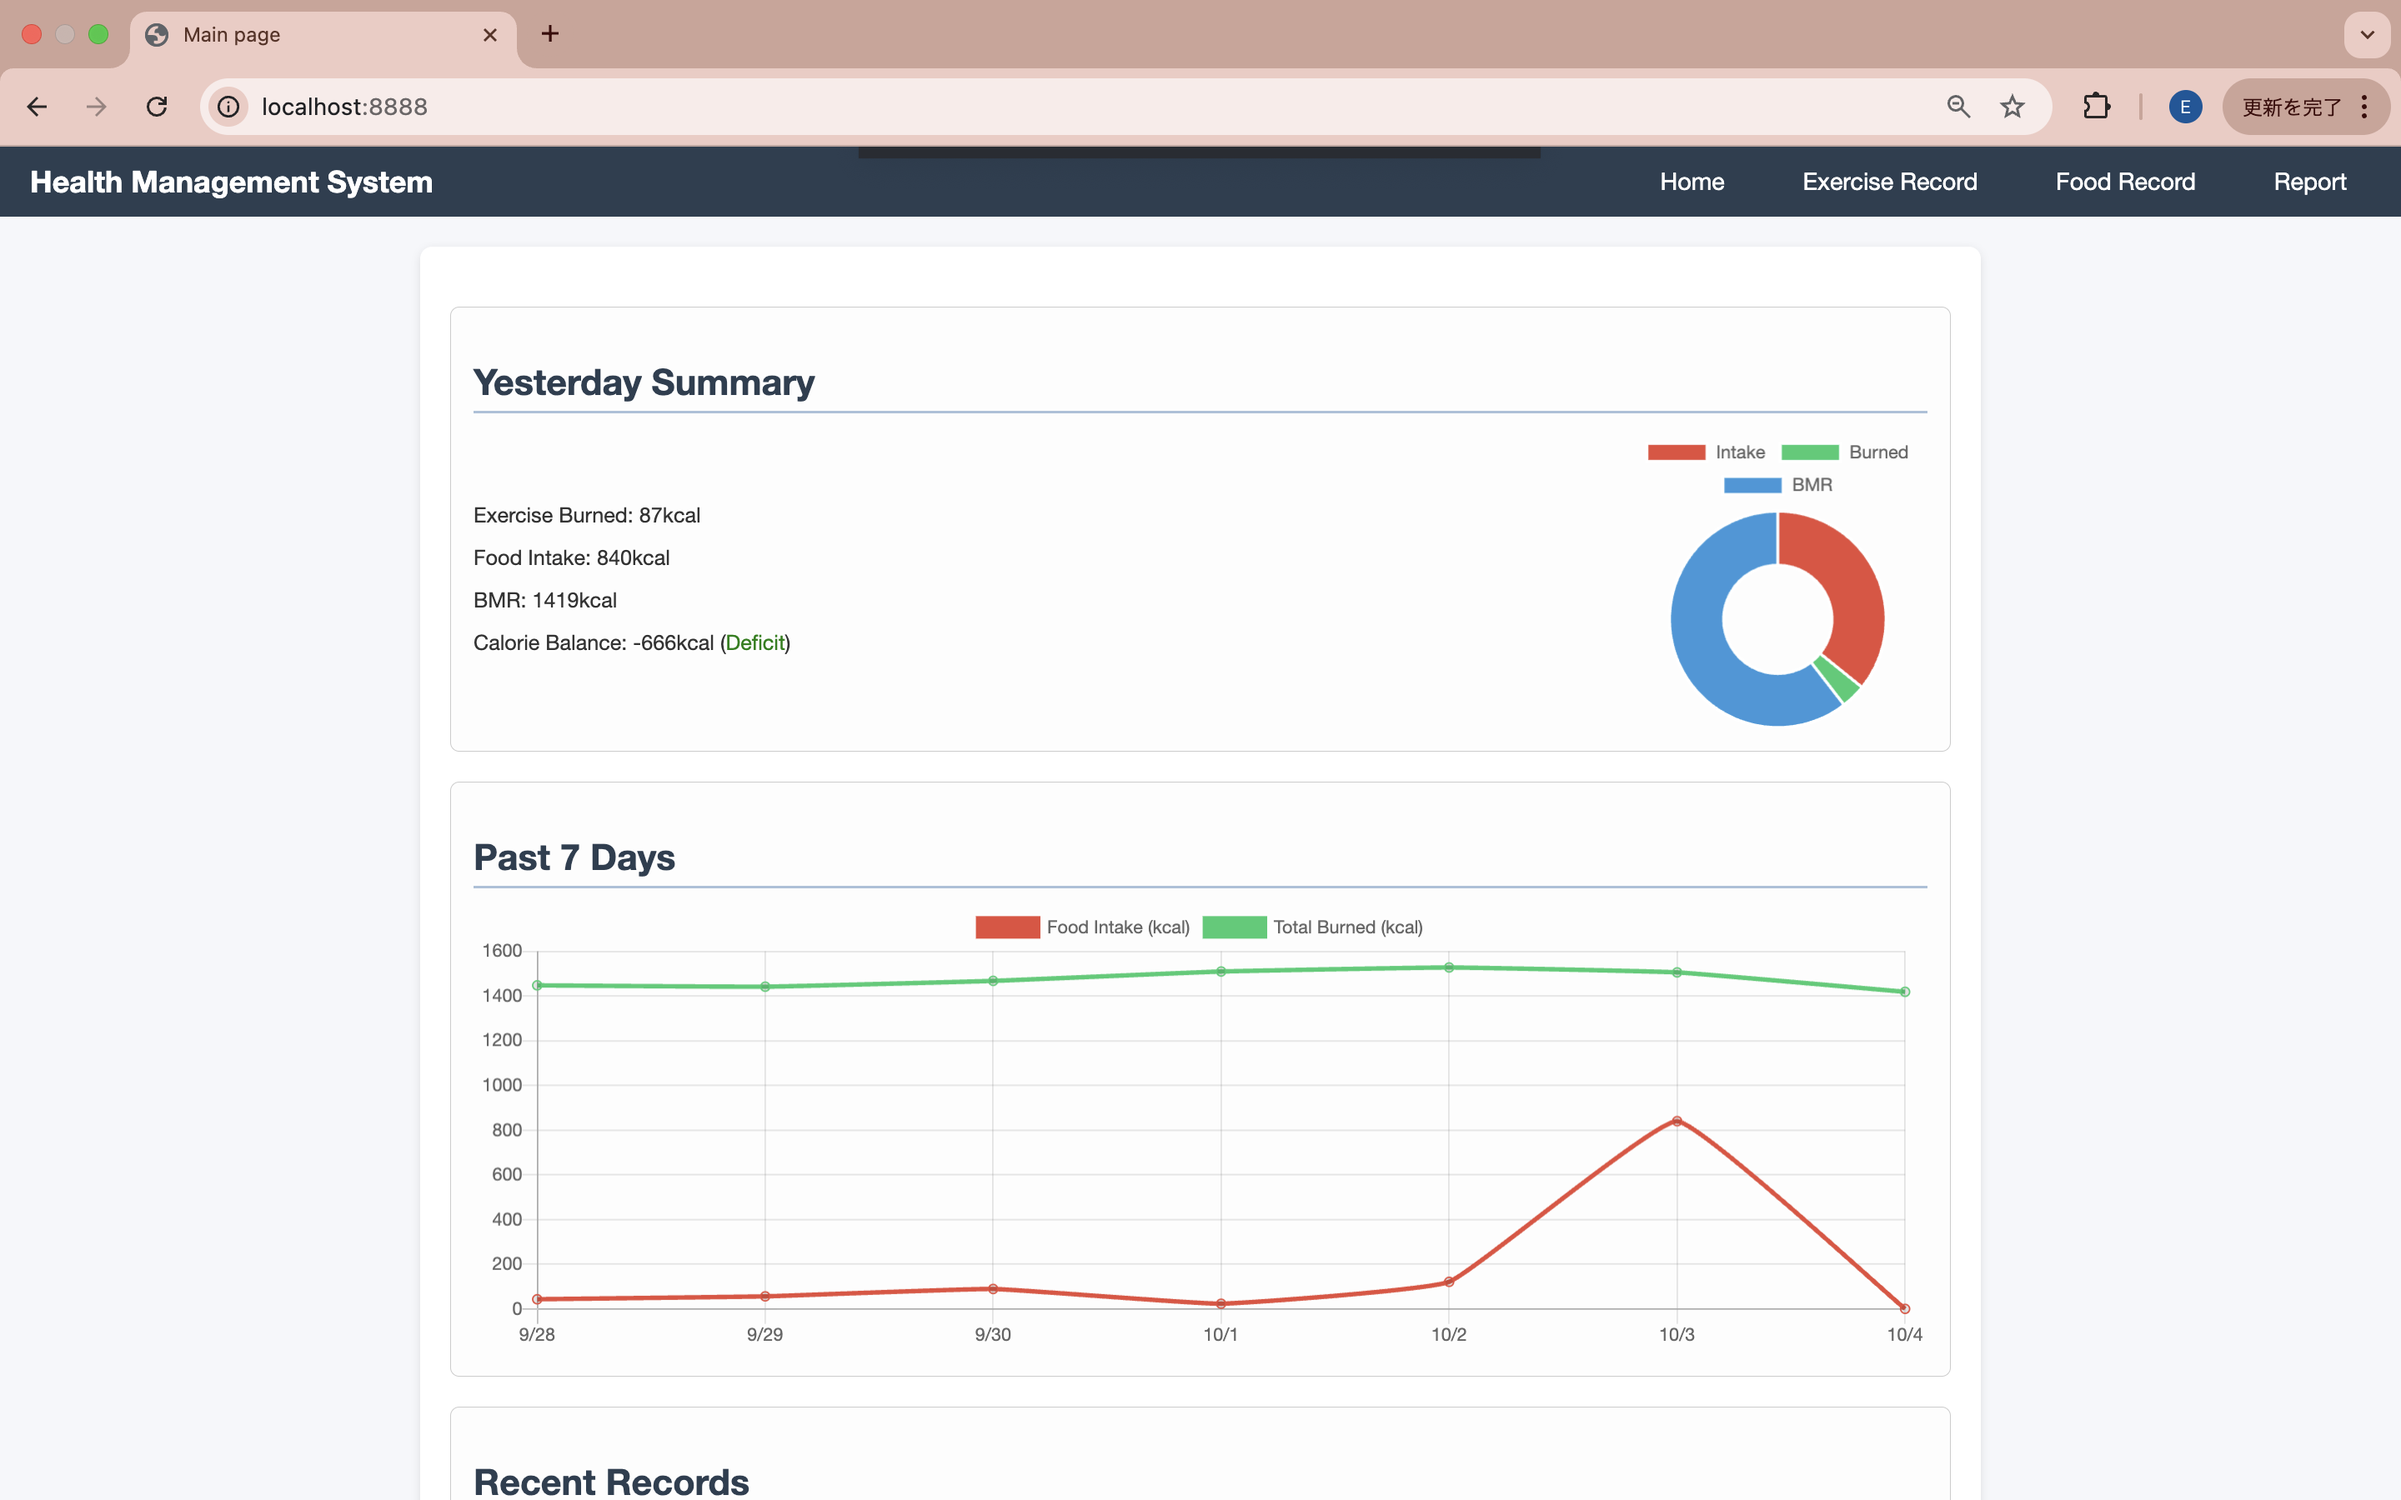
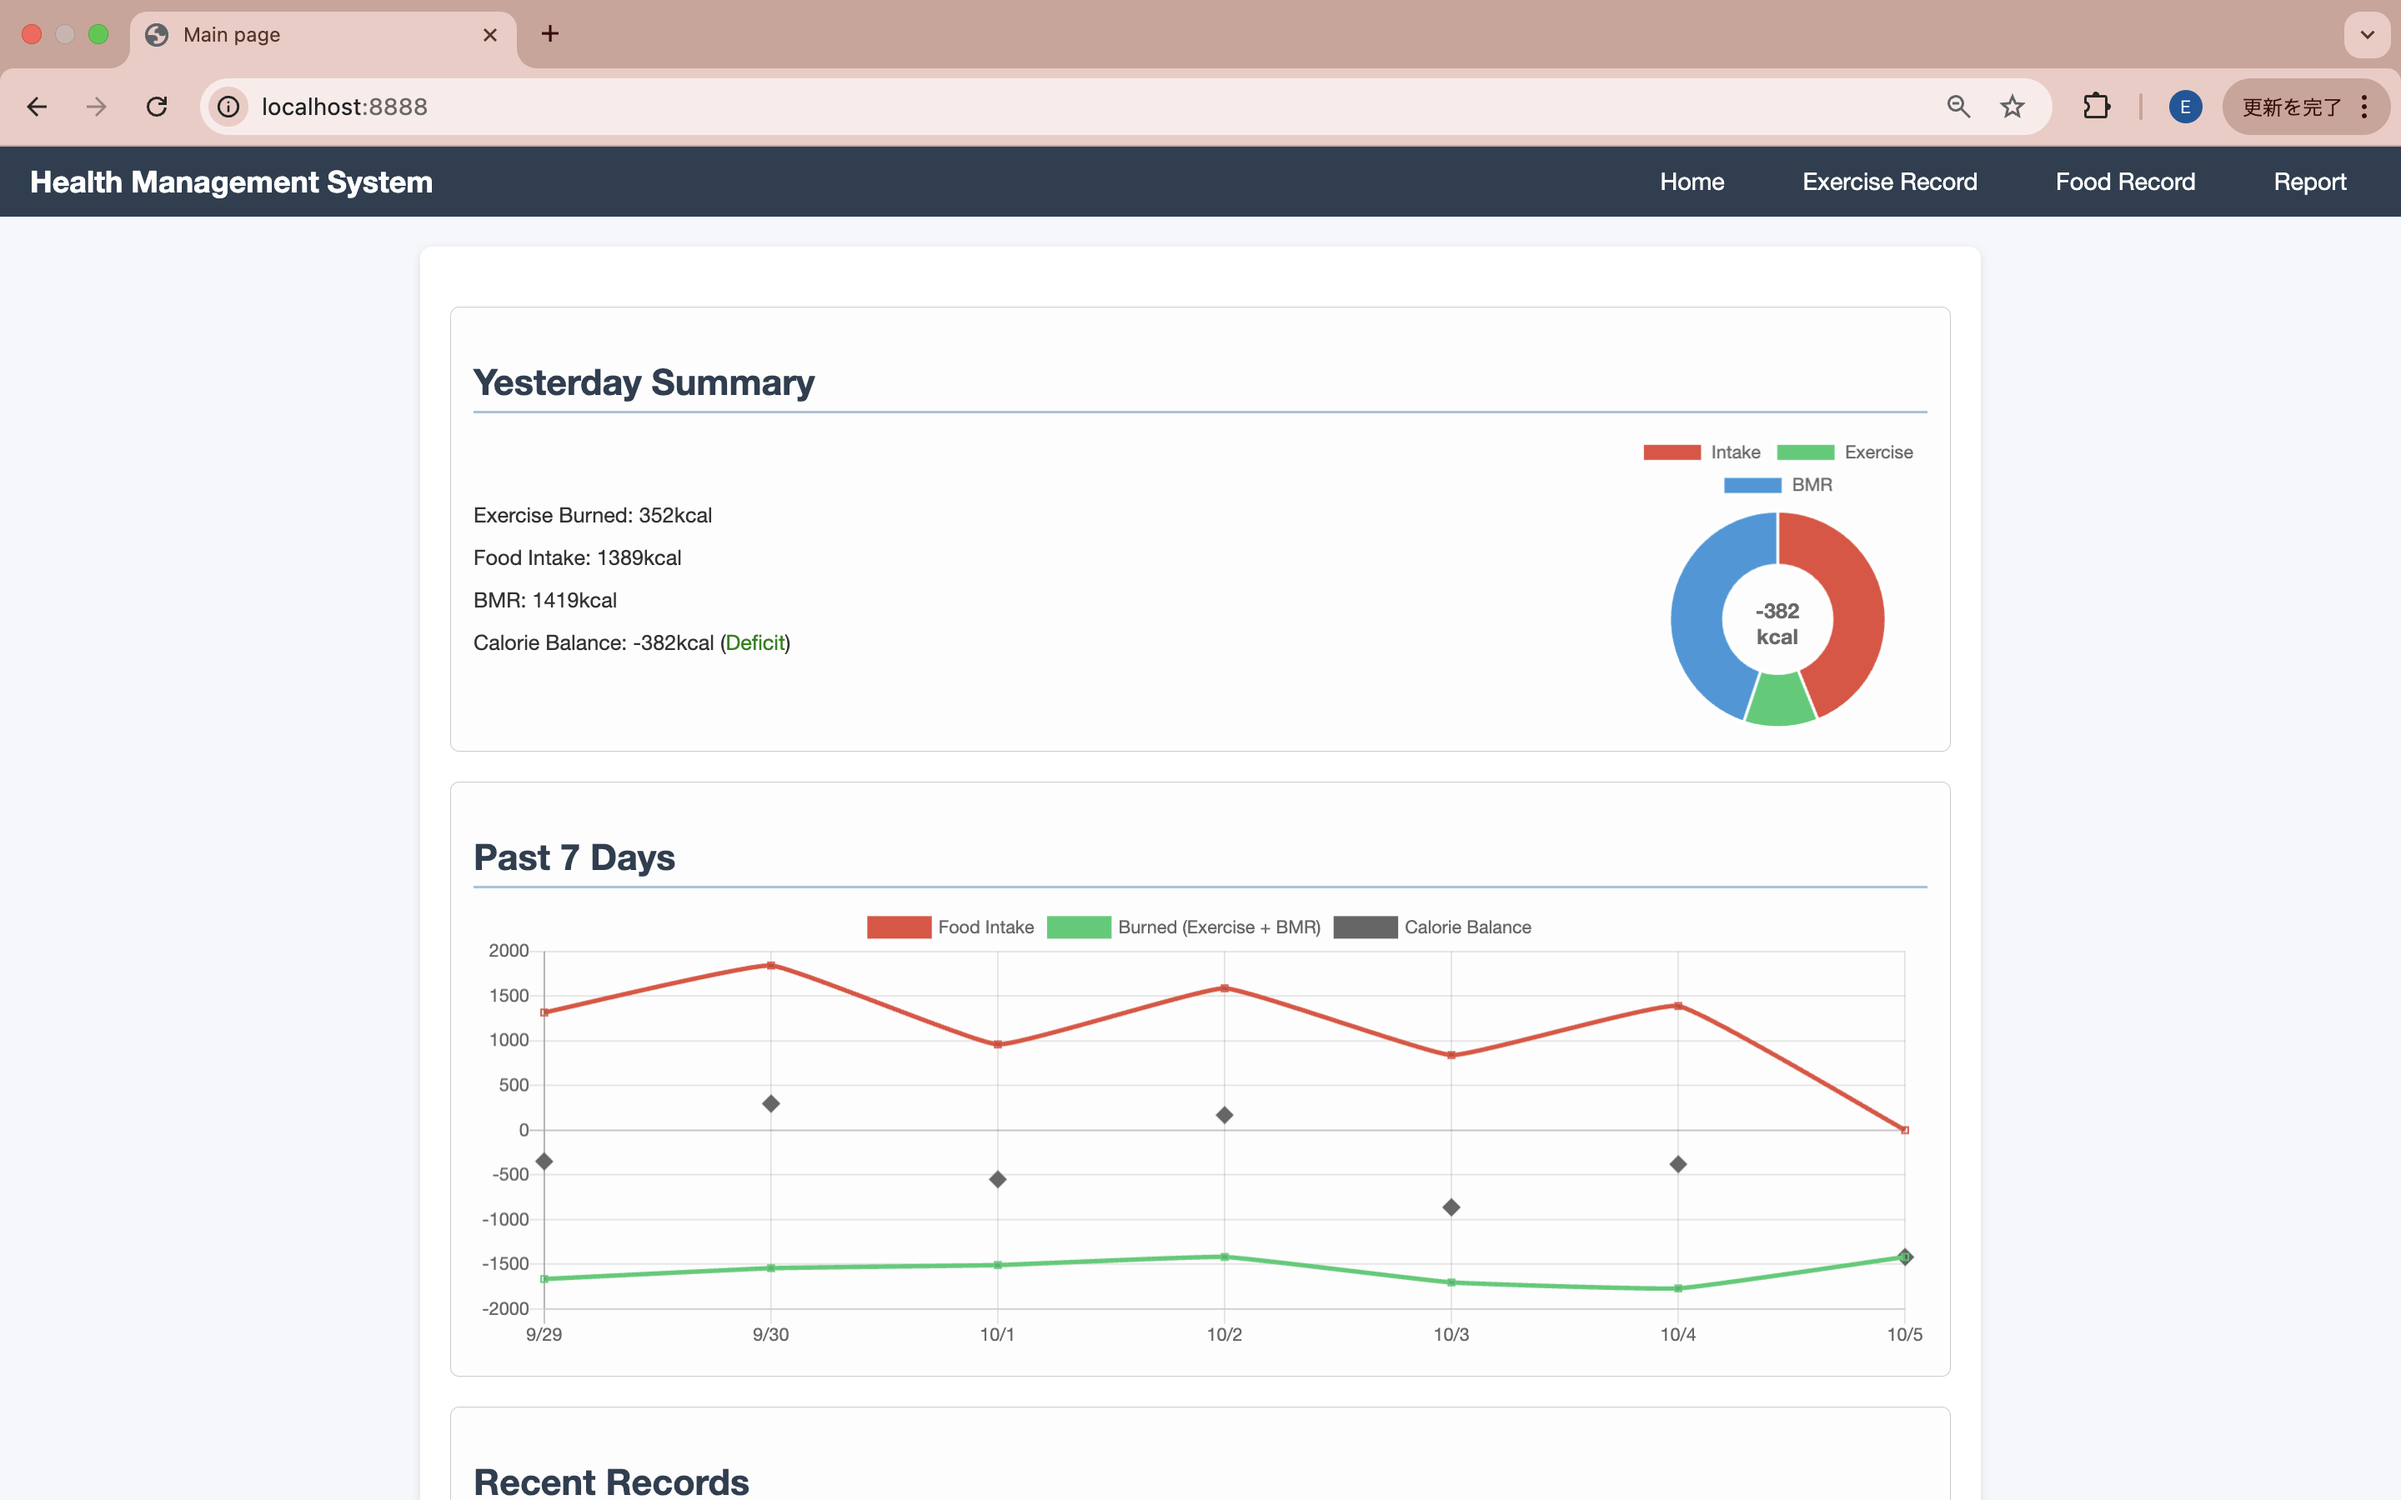
Add 'Past 7 days trend chart' for dashboard. Update README.

diff --git a/src/main/resources/templates/home.html b/src/main/resources/templates/home.html
@@ -27,6 +27,10 @@
             </div>
             <div class="summary-chart">
                 <canvas id="yesterdayChart" width="250" height="250"></canvas>
+                <div class="chart-center-text">
+                    <span th:text="${diff}">0</span>
+                    <small>kcal</small>
+                </div>
             </div>
         </div>
     </div>
@@ -44,7 +48,7 @@
         new Chart(yesterdayCtx, {
             type: "doughnut",
             data: {
-                labels: ['Intake', 'Burned', 'BMR'],
+                labels: ['Intake', 'Exercise', 'BMR'],
                 datasets: [{
                     label: 'Calories(kcal)',
                     data: [intake, exerciseBurned, bmr],
@@ -77,9 +81,14 @@
         const intakeData = /*[[${intakeData}]]*/ [];
         const dateLabels = /*[[${dateLabels}]]*/ [];
         const burnedData = /*[[${burnedData}]]*/ [];
+        const diffData = /*[[${diffData}]]*/ [];
+        const goalAchievedData = /*[[${goalAchievedData}]]*/ [];
 
-        console.log("サーバーから渡された日付ラベル:", dateLabels);
-        console.log("サーバーから渡された摂取カロリーデータ:", intakeData);
+        const negativeBurnedData = burnedData.map(value => -value);
+        // const pointStyles = goalAchievedData.map(achieved => achieved ? 'rect' : 'crossRot'); // 達成ならマル, 未達成ならバツ
+
+        console.log("サーバから渡された日付ラベル:", dateLabels);
+        console.log("サーバから渡された摂取カロリーデータ:", intakeData);
 
         const trendCtx = document.getElementById("past7DayChart").getContext("2d");
         new Chart(trendCtx, {
@@ -88,18 +97,30 @@
                 labels: dateLabels,
                 datasets: [
                     {
-                        label: 'Food Intake (kcal)',
+                        label: 'Food Intake',
                         data: intakeData,
                         fill: false,
                         borderColor: '#e74c3c',    // Intake 红
+                        pointStyle: 'rect',
                         tension: 0.1
                     },
                     {
-                        label: 'Total Burned (kcal)',
-                        data: burnedData,
+                        label: 'Burned (Exercise + BMR)',
+                        data: negativeBurnedData,
                         fill: false,
+                        pointStyle: 'rect',
                         borderColor: '#2ecc71',
-                        tension: 0.1
+                        tension: 0.1,
+                    },
+                    {
+                        label: 'Calorie Balance',
+                        data: diffData,
+                        showLine: false,
+                        fill: false,
+                        pointBackgroundColor: '696969FF',
+                        borderColor: '696969FF',
+                        pointRadius: 6,
+                        pointStyle: 'rectRot'
                     }
                 ]
             },

diff --git a/src/main/resources/static/css/healthmanage.css b/src/main/resources/static/css/healthmanage.css
@@ -296,6 +296,7 @@ tr:hover {
 }
 
 .summary-chart {
+    position: relative; /* 子要素を絶対位置で配置するための基準にする */
     flex: 0 0 200px;           /* 固定宽度 200px */
     height: 200px;             /* 高度 200px */
 }
@@ -303,6 +304,26 @@ tr:hover {
 .summary-chart canvas {
     width: 100% !important;   /* 让 Chart.js 适应容器 */
     height: 100% !important;
+}
+
+.chart-center-text {
+    /* 親要素の中央に配置するおまじない */
+    position: absolute;
+    top: 65%;
+    left: 50%;
+    transform: translate(-50%, -50%);
+
+    /* テキストのスタイル */
+    text-align: center;
+    font-size: 14px;
+    font-weight: bold;
+    color: dimgray;
+}
+
+.chart-center-text small {
+    display: block; /* ブロック要素にして改行させる */
+    font-size: 14px;
+    color: dimgray;
 }
 
 .chart-container {

diff --git a/src/main/java/com/springboot/healthmanage/controller/HomeController.java b/src/main/java/com/springboot/healthmanage/controller/HomeController.java
@@ -8,12 +8,14 @@ import org.springframework.ui.Model;
 import org.springframework.web.bind.annotation.GetMapping;
 import org.thymeleaf.expression.Maps;
 
+import java.math.BigDecimal;
 import java.time.LocalDate;
 import java.time.format.DateTimeFormatter;
 import java.util.ArrayList;
 import java.util.LinkedHashMap;
 import java.util.List;
 import java.util.Map;
+import java.util.concurrent.ThreadLocalRandom;
 import java.util.stream.Collectors;
 
 @Controller
@@ -55,20 +57,30 @@ public class HomeController {
         List<String> dateLabels = new ArrayList<>();
         List<Integer> intakeData = new ArrayList<>();
         List<Integer> burnedData = new ArrayList<>();
+        List<Integer> diffData = new ArrayList<>();
+        List<Boolean> goalAchievedData = new ArrayList<>();
 
         // 7日間の日付をループし、2つのリストにデータを振り分ける
         for (LocalDate date : last7Days) {
-            // ラベルを追加 (例: "10/5")
+            // ラベルを追加
             dateLabels.add(date.format(DateTimeFormatter.ofPattern("M/d")));
-            // 食事データを追加 (該当日がなければ0を追加)
-            intakeData.add(dailyIntakeMap.getOrDefault(date, 0));
-            // 運動データを追加 (該当日がなければ0を追加)
-            burnedData.add(dailyBurnedMap.getOrDefault(date, 0) + bmr);
+            // データを追加
+            int dailyIntake = dailyIntakeMap.getOrDefault(date, 0);
+            intakeData.add(dailyIntake);
+            int dailyBurned = dailyBurnedMap.getOrDefault(date, 0) + bmr;
+            burnedData.add(dailyBurned);
+            int dailyBmr = ThreadLocalRandom.current().nextInt(1370, 1430);
+            int dailyDiff = dailyIntake - dailyBurned;
+            diffData.add(dailyDiff);
+            goalAchievedData.add(dailyDiff < 0);
+
         }
 
         model.addAttribute("dateLabels", dateLabels);
         model.addAttribute("intakeData", intakeData);
         model.addAttribute("burnedData", burnedData);
+        model.addAttribute("goalAchievedData", goalAchievedData);
+        model.addAttribute("diffData", diffData);
 
         return "home"; // templates/home.html
     }

diff --git a/src/main/java/com/springboot/healthmanage/service/impl/ExerciseServiceImpl.java b/src/main/java/com/springboot/healthmanage/service/impl/ExerciseServiceImpl.java
@@ -114,10 +114,10 @@ public class ExerciseServiceImpl implements ExerciseService {
     public LinkedHashMap<LocalDate, Integer> getDailyBurnedForLast7Days() {
         // 過去7日間の日付範囲を計算
         LocalDate endDate = LocalDate.now();   // 今日
-        LocalDate startDate = LocalDate.now().minusDays(7); // 7日前
+        LocalDate startDate = LocalDate.now().minusDays(6); // 7日前
 
         //  Stream APIでDailyCaloriesを集計
-        List<Exercise> exercises = exerciseRepository.findByDateBetween(startDate.atStartOfDay(), endDate.atStartOfDay());
+        List<Exercise> exercises = exerciseRepository.findByDateBetween(startDate.atStartOfDay(), endDate.atTime(23, 59, 59));
         Map<LocalDate, Integer> dailyBurnedMap = exercises.stream()
                 .collect(Collectors.groupingBy(
                         // グループ化のキーとして、LocalDateTimeからLocalDateを抽出

diff --git a/src/main/java/com/springboot/healthmanage/service/impl/FoodServiceImpl.java b/src/main/java/com/springboot/healthmanage/service/impl/FoodServiceImpl.java
@@ -114,7 +114,7 @@ public class FoodServiceImpl implements FoodService {
         LocalDate startDate = LocalDate.now().minusDays(7); // 7日前
 
         //  Stream APIでDailyCaloriesを集計
-        List<Food> foods = foodRepository.findByDateBetween(startDate.atStartOfDay(), endDate.atStartOfDay());
+        List<Food> foods = foodRepository.findByDateBetween(startDate.atStartOfDay(), endDate.atTime(23, 59, 59));
         Map<LocalDate, Integer> dailyIntakeMap = foods.stream()
                 .collect(Collectors.groupingBy(
                         // グループ化のキーとして、LocalDateTimeからLocalDateを抽出
